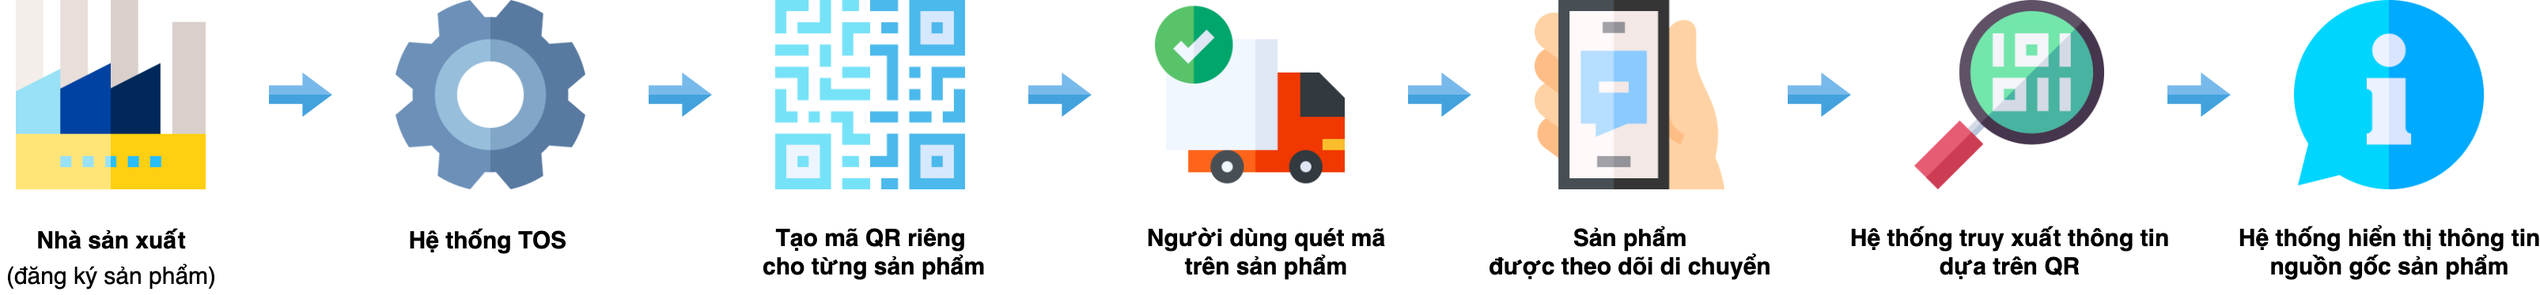
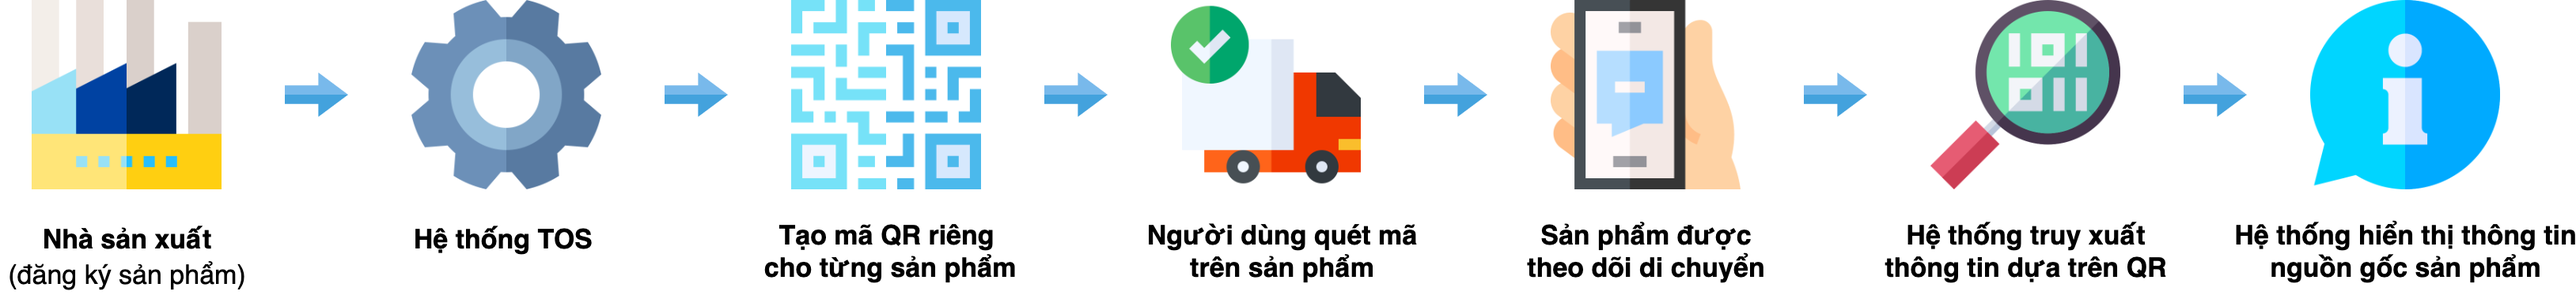
fix ui homepage

diff --git a/src/components/UI/ActiveMethodHomePage.jsx b/src/components/UI/ActiveMethodHomePage.jsx
@@ -12,59 +12,18 @@ import {
 } from "react-icons/fa";
 
 const ActiveMethodHomePage = () => {
-  const steps = [
-    {
-      icon: FaIndustry,
-      title: "Nhà sản xuất",
-      description: "(đăng ký sản phẩm)",
-    },
-    {
-      icon: FaCogs,
-      title: "Hệ thống TOS",
-      description: "",
-    },
-    {
-      icon: FaQrcode,
-      title: "Tạo mã QR riêng cho từng sản phẩm",
-      description: "",
-    },
-    {
-      icon: FaTruck,
-      title: "Sản phẩm được theo dõi di chuyển",
-      description: "",
-    },
-    {
-      icon: FaMobileAlt,
-      title: "Người dùng quét mã trên sản phẩm",
-      description: "",
-    },
-    {
-      icon: FaSearch,
-      title: "Hệ thống truy xuất thông tin dựa trên QR",
-      description: "",
-    },
-    {
-      icon: FaInfoCircle,
-      title: "Hệ thống hiển thị thông tin nguồn gốc sản phẩm",
-      description: "",
-    },
-  ];
-
   return (
     <div className="flex flex-col items-center justify-center p-10">
       {/* Tên nội dung */}
       <h2 className="text-3xl font-bold mb-4 text-center">Phương thức hoạt động</h2>
 
       {/* Hình ảnh */}
-      {/* <div className="items-center p-8 overflow-x-auto w-screen"> */}
-      <div className="items-center p-8">
-      <img 
-              src="/workflow-process.png" // Đường dẫn tới logo của hãng
-              alt="Logo"
-              className="
-               object-contain" // Điều chỉnh kích thước logo theo ý muốn
-            />
-      
+      <div className="p-8 w-full overflow-x-auto md:overflow-hidden">
+        <img 
+          src="/workflow-process.png" // Đường dẫn tới logo của hãng
+          alt="Logo"
+          className="object-contain" // Điều chỉnh kích thước logo theo ý muốn
+        />
       </div>
     </div>
   );
